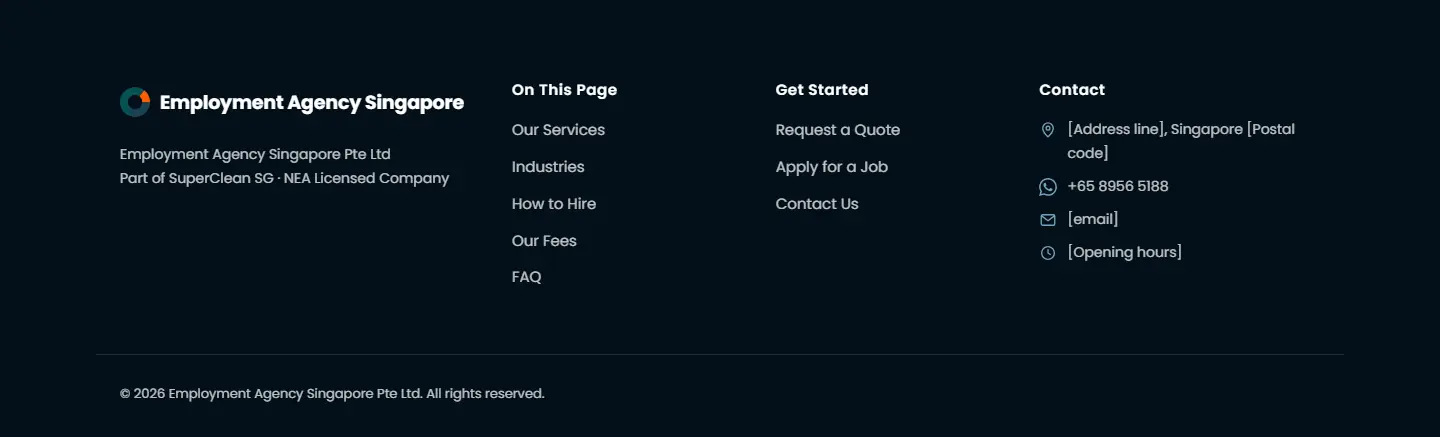
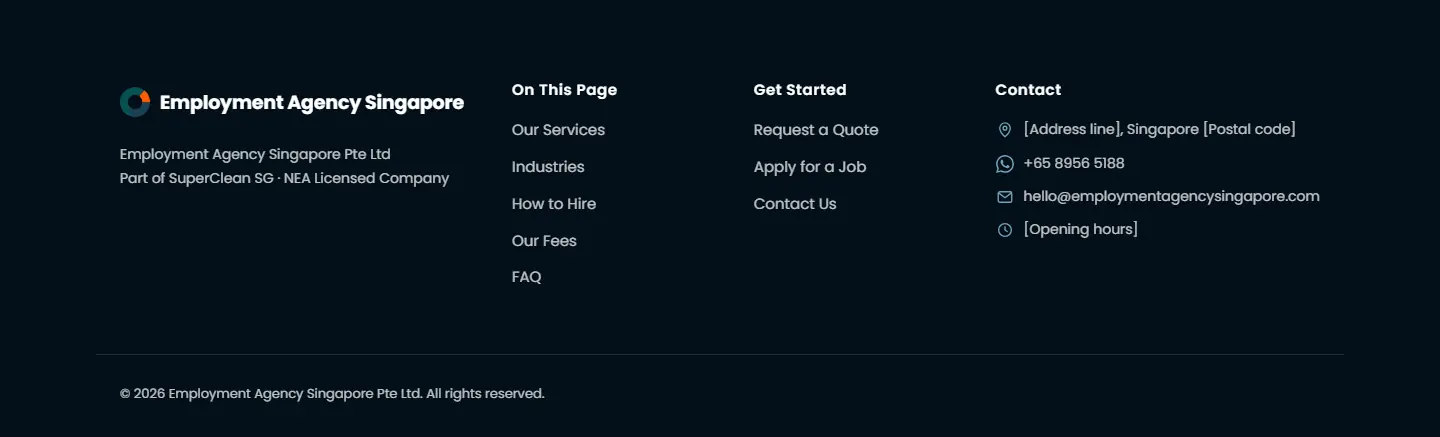
Services default photo, Contact to the form, email and phone
- Services: a default photo shows while no service is open; opening a
  service shows its photo, closing it brings the default back.
  service-default.webp is a temporary copy until the real photo arrives.
- Contact (nav) and Contact Us (footer) scroll to the form section; the
  footer WhatsApp number still opens WhatsApp.
- Form section shows hello@employmentagencysingapore.com and a phone
  number placeholder; the footer email is filled in too.

diff --git a/process/design-system.html b/process/design-system.html
@@ -453,7 +453,7 @@ table.ds-table{width:100%;border-collapse:collapse;font-size:14px}
       <div class="x-svc open"><div class="x-svc-head"><span class="x-svc-ico"><svg width="24" height="24"><use href="#i-helmet"/></svg></span><span class="x-svc-t"><strong>Construction Worker Recruitment</strong><small>New and U-turn workers</small></span><span class="x-chev"><svg width="18" height="18"><use href="#i-chev"/></svg></span></div>
         <div class="x-svc-body"><p>New and U-turn workers from Bangladesh, India, Myanmar and PRC.</p><div style="display:flex;flex-wrap:wrap;gap:8px"><span class="x-chip">Bangladesh</span><span class="x-chip">India</span><span class="x-chip">Myanmar</span><span class="x-chip">PRC</span></div><a class="x-btn x-primary sm" href="#components" style="justify-self:start">Request a Quote</a></div></div>
     </div>
-    <ul class="state-list"><li>All rows closed on load; a click opens one and closes the others; clicking an open row closes it. No timer</li><li>Row header padding 20 × 24 desktop, 16 × 18 tablet, 14 × 16 mobile; icon tile 48 / 40 / hidden on mobile</li><li>The row's Request a Quote button scrolls to the homepage form with that service pre-selected</li></ul></div></div>
+    <ul class="state-list"><li>All rows closed on load; a click opens one and closes the others; clicking an open row closes it. No timer</li><li>Desktop photo panel: a default photo (<code>service-default.webp</code>) while no row is open; opening a row shows that service's photo; closing it brings the default back</li><li>Row header padding 20 × 24 desktop, 16 × 18 tablet, 14 × 16 mobile; icon tile 48 / 40 / hidden on mobile</li><li>The row's Request a Quote button scrolls to the homepage form with that service pre-selected</li></ul></div></div>
 
   <div class="ds-sub"><h3>3.4 FAQ row</h3>
     <div class="specimen x"><div class="demo-col">
@@ -564,7 +564,7 @@ table.ds-table{width:100%;border-collapse:collapse;font-size:14px}
     <div class="gallery"><figure class="shot"><div class="scroll"><img src="design-system-img/faq-desktop.webp" alt="FAQ, desktop" loading="lazy"></div><figcaption>Desktop 1440</figcaption></figure><figure class="shot"><div class="scroll"><img src="design-system-img/faq-tablet.webp" alt="FAQ, tablet" loading="lazy"></div><figcaption>Tablet 768</figcaption></figure><figure class="shot"><div class="scroll"><img src="design-system-img/faq-mobile.webp" alt="FAQ, mobile" loading="lazy"></div><figcaption>Mobile 390</figcaption></figure></div></div>
 
   <div class="block" id="b-form"><h4>4.12 Request Workers form</h4>
-    <p class="lead-note">Harbor band with dotted circles. Heading, one line of text and the licence line on the left; white form card on the right titled "Get Your Quote Today" (same words as the HubSpot button) holding the HubSpot form, with "Looking for a job? Apply here" (WhatsApp) under it. Every Request a Quote button on the homepage scrolls here. The HubSpot embed runs edge to edge inside the card because it brings its own side padding.</p>
+    <p class="lead-note">Harbor band with dotted circles. Heading, one line of text, email (hello@employmentagencysingapore.com, mailto link) and phone number with Glacier icons, then the licence line on the left; white form card on the right titled "Get Your Quote Today" (same words as the HubSpot button) holding the HubSpot form, with "Looking for a job? Apply here" (WhatsApp) under it. Every Request a Quote button on the homepage scrolls here. The HubSpot embed runs edge to edge inside the card because it brings its own side padding.</p>
     <div class="table-wrap bp-table"><table class="ds-table"><tr><th>Desktop</th><th>Tablet</th><th>Mobile</th></tr><tr><td>Two columns</td><td>Stacked</td><td>Stacked, centred heading</td></tr></table></div>
     <div class="gallery"><figure class="shot"><div class="scroll"><img src="design-system-img/form-desktop.webp" alt="Request Workers form, desktop" loading="lazy"></div><figcaption>Desktop 1440</figcaption></figure><figure class="shot"><div class="scroll"><img src="design-system-img/form-tablet.webp" alt="Request Workers form, tablet" loading="lazy"></div><figcaption>Tablet 768</figcaption></figure><figure class="shot"><div class="scroll"><img src="design-system-img/form-mobile.webp" alt="Request Workers form, mobile" loading="lazy"></div><figcaption>Mobile 390</figcaption></figure></div></div>
 
@@ -599,11 +599,12 @@ table.ds-table{width:100%;border-collapse:collapse;font-size:14px}
         <tr><td>13</td><td>Footer + floating WhatsApp</td><td>4.13 / 3.9</td><td>Depth</td></tr>
       </table></div></div>
     <div style="flex:1;min-width:300px"><h3 style="margin:0 0 10px;color:#030F18">One page only</h3>
-      <p style="margin:0 0 12px">There is no contact page. Quote requests go to the Request Workers form at the bottom of the homepage; Contact and job enquiries go to WhatsApp +65 8956 5188.</p>
+      <p style="margin:0 0 12px">There is no contact page. Quote requests and Contact go to the Request Workers form section at the bottom of the homepage; job enquiries go to WhatsApp +65 8956 5188.</p>
       <div class="table-wrap"><table class="ds-table">
         <tr><th>Link</th><th>Goes to</th></tr>
         <tr><td>Request a Quote (header, hero, fees, process)</td><td>Homepage form, same page</td></tr>
-        <tr><td>Contact (nav), Contact Us (footer)</td><td>WhatsApp with the employer message, new tab</td></tr>
+        <tr><td>Contact (nav), Contact Us (footer)</td><td>Request a Quote form section, same page</td></tr>
+        <tr><td>Footer WhatsApp number</td><td>WhatsApp with the employer message, new tab</td></tr>
         <tr><td>Service row Request a Quote</td><td>Homepage form, service pre-selected</td></tr>
         <tr><td>Hire … Workers (country cards)</td><td>Homepage form, country pre-selected</td></tr>
         <tr><td>Find a Job, Apply for a Job</td><td>WhatsApp with a job-seeker message, new tab</td></tr>

diff --git a/landing-pages/index.html b/landing-pages/index.html
@@ -10,8 +10,8 @@
   <link rel="preconnect" href="https://fonts.gstatic.com" crossorigin>
   <link href="https://fonts.googleapis.com/css2?family=Poppins:wght@400;500;600;700&display=swap" rel="stylesheet">
   <link rel="icon" type="image/svg+xml" href="images/ea-logo.svg">
-  <link rel="stylesheet" href="css/design-system.css?v=41">
-  <link rel="stylesheet" href="css/home.css?v=41">
+  <link rel="stylesheet" href="css/design-system.css?v=42">
+  <link rel="stylesheet" href="css/home.css?v=42">
 </head>
 <body>
 
@@ -68,7 +68,7 @@
       <a href="#how-to-hire">How to Hire</a>
       <a href="#fees">Fees</a>
       <a href="#faq">FAQ</a>
-      <a data-link="contact" href="#" target="_blank" rel="noopener">Contact</a>
+      <a data-link="contact" href="#request-workers">Contact</a>
       <div class="nav-ctas-mobile">
         <a class="btn btn-secondary" data-link="findJob" href="#" target="_blank" rel="noopener">Find a Job</a>
         <a class="btn btn-primary" data-link="requestWorkers" href="#request-workers">Request a Quote</a>
@@ -229,7 +229,8 @@
 
       <div class="svc-media" aria-hidden="true">
         <div class="svc-media-frame">
-          <div class="media-ph has-photo is-active"><img src="images/home/service-cleaner-supply.webp" width="1200" height="960" alt="Cleaner in rubber gloves washing a plate at a commercial kitchen sink" title="Foreign Cleaner Supply" loading="lazy" decoding="async"></div>
+          <div class="media-ph has-photo media-default is-active"><img src="images/home/service-default.webp" width="1200" height="960" alt="Foreign cleaning and construction workers placed by Employment Agency Singapore" title="Foreign Worker Services" loading="lazy" decoding="async"></div>
+          <div class="media-ph has-photo"><img src="images/home/service-cleaner-supply.webp" width="1200" height="960" alt="Cleaner in rubber gloves washing a plate at a commercial kitchen sink" title="Foreign Cleaner Supply" loading="lazy" decoding="async"></div>
           <div class="media-ph has-photo"><img src="images/home/service-outsourcing.webp" width="1200" height="960" alt="SuperClean SG cleaner wiping down an office desk at a client site" title="Cleaning Manpower Outsourcing" loading="lazy" decoding="async"></div>
           <div class="media-ph has-photo"><img src="images/home/service-construction.webp" width="1200" height="960" alt="Construction worker in a hard hat and safety vest measuring steel rebar on site" title="Construction Worker Recruitment" loading="lazy" decoding="async"></div>
           <div class="media-ph has-photo"><img src="images/home/service-work-permit.webp" width="1200" height="960" alt="Signed documents being handed across a desk" title="Work Permit Services" loading="lazy" decoding="async"></div>
@@ -518,6 +519,10 @@
       <h2 id="cta-title">Ready to Get Started? <span class="accent block">Talk to Our Team.</span></h2>
       <p class="lead">Hire reliable foreign cleaners with Singapore's trusted cleaning experts.</p>
       <p class="cta-sub">Simply submit this enquiry form to get your quote and levy check.</p>
+      <ul class="cta-contact">
+        <li><svg class="ico" aria-hidden="true"><use href="#i-mail"/></svg><a href="mailto:hello@employmentagencysingapore.com">hello@employmentagencysingapore.com</a></li>
+        <li><svg class="ico" aria-hidden="true"><use href="#i-phone"/></svg><span>+65 [phone number]</span></li>
+      </ul>
       <p class="licence-line">Part of SuperClean SG · NEA Licensed Company</p>
     </div>
 
@@ -552,14 +557,14 @@
       <h3>Get Started</h3>
       <a data-link="requestWorkers" href="#request-workers">Request a Quote</a>
       <a data-link="findJob" href="#" target="_blank" rel="noopener">Apply for a Job</a>
-      <a data-link="contact" href="#" target="_blank" rel="noopener">Contact Us</a>
+      <a data-link="contact" href="#request-workers">Contact Us</a>
     </div>
     <div class="footer-col">
       <h3>Contact</h3>
       <ul class="contact-list">
         <li><svg class="ico"><use href="#i-pin"/></svg>[Address line], Singapore [Postal code]</li>
-        <li><svg class="ico"><use href="#i-whatsapp"/></svg><a data-link="contact" href="#" target="_blank" rel="noopener">+65 8956 5188</a></li>
-        <li><svg class="ico"><use href="#i-mail"/></svg>[email]</li>
+        <li><svg class="ico"><use href="#i-whatsapp"/></svg><a data-link="whatsapp" href="#" target="_blank" rel="noopener">+65 8956 5188</a></li>
+        <li><svg class="ico"><use href="#i-mail"/></svg><a href="mailto:hello@employmentagencysingapore.com">hello@employmentagencysingapore.com</a></li>
         <li><svg class="ico"><use href="#i-clock"/></svg>[Opening hours]</li>
       </ul>
     </div>
@@ -574,6 +579,6 @@
   <svg><use href="#i-whatsapp"/></svg>
 </a>
 
-<script src="js/home.js?v=41"></script>
+<script src="js/home.js?v=42"></script>
 </body>
 </html>

diff --git a/landing-pages/js/home.js b/landing-pages/js/home.js
@@ -29,10 +29,10 @@ const MSG_JOB_SEEKER = [
 ].join('\n');
 
 // One page only: Request a Quote and the service/country cards go to the HubSpot form below.
-// Contact, Find a Job and the WhatsApp buttons open WhatsApp in a new tab.
+// Contact scrolls to the form section; Find a Job and the WhatsApp buttons open WhatsApp in a new tab.
 const LINKS = {
   requestWorkers: '#request-workers',
-  contact: waLink(MSG_EMPLOYER),
+  contact: '#request-workers',
   findJob: waLink(MSG_JOB_SEEKER),
   whatsapp: waLink(MSG_EMPLOYER),
 };
@@ -99,7 +99,8 @@ updateReviewBtns();
 
 /* ---------- Services accordion: opens and closes only when clicked ---------- */
 const svcItems = [...document.querySelectorAll('.svc-item')];
-const svcMedia = [...document.querySelectorAll('.svc-media .media-ph')];
+const svcMedia = [...document.querySelectorAll('.svc-media .media-ph:not(.media-default)')];
+const svcDefault = document.querySelector('.svc-media .media-default');
 let svcIndex = svcItems.findIndex((item) => item.classList.contains('is-open'));
 
 // i = -1 closes everything
@@ -111,7 +112,8 @@ const openService = (i) => {
     item.querySelector('.svc-head').setAttribute('aria-expanded', String(open));
   });
   // keep the last picture showing when everything is closed
-  if (i >= 0) svcMedia.forEach((m, n) => m.classList.toggle('is-active', n === i));
+  svcMedia.forEach((m, n) => m.classList.toggle('is-active', n === i));
+  if (svcDefault) svcDefault.classList.toggle('is-active', i < 0);
 };
 
 svcItems.forEach((item, i) => {

diff --git a/landing-pages/css/home.css b/landing-pages/css/home.css
@@ -863,3 +863,12 @@ details[open] .faq-ico { transform: rotate(45deg); background: var(--frost); }
 .form-card .hs-form-frame { margin: 0 -32px; }
 @media (max-width: 900px) { .form-card .hs-form-frame { margin: 0 -24px; } }
 @media (max-width: 600px) { .form-card .hs-form-frame { margin: 0 -18px; } }
+/* Email and phone in the Request a Quote band */
+.cta-contact { display: grid; gap: 4px; }
+.cta-contact li { display: flex; align-items: center; gap: 10px; font-size: 15px; color: var(--white); }
+.cta-contact .ico { width: 18px; height: 18px; color: var(--glacier); }
+.cta-contact a { display: inline-flex; align-items: center; min-height: 44px; text-decoration: underline; text-underline-offset: 3px; text-decoration-color: rgba(114,163,191,.6); word-break: break-word; }
+.cta-contact a:hover { color: var(--glacier); }
+.cta-contact span { display: inline-flex; align-items: center; min-height: 44px; }
+@media (max-width: 900px) { .cta-contact li { font-size: 14px; } }
+@media (max-width: 600px) { .cta-contact { justify-items: center; } }

diff --git a/CLAUDE.md b/CLAUDE.md
@@ -15,7 +15,7 @@ landing-pages/        THE ONLY FOLDER THAT GETS DEPLOYED
   images/home/*.webp    homepage photos
 process/              design-system.html (internal only, never deployed) + design-system-img/ + snippets/
 scripts/python/       capture.py · mobile_audit.py · ds_shots.py · build_preview.py · strips.py
-output/               backups/v1 … v27 and screenshots: local only, ignored by git
+output/               backups/v1 … v31 and screenshots: local only, ignored by git
 ```
 A new page would go in `landing-pages/<page-slug>/index.html`. Nothing else belongs at the root.
 
@@ -32,9 +32,9 @@ A new page would go in `landing-pages/<page-slug>/index.html`. Nothing else belo
 - Colours from the `:root` tokens only. Only Request a Quote is orange. In two-colour H2s the highlight sits on the second line. H2s are centred, except the recruitment process and the Request Workers form (left on desktop and tablet).
 - Licence line reads "Part of SuperClean SG · NEA Licensed Company" (hero, form section, footer).
 - Mobile: inputs 16px, tap targets at least 44px (arrow buttons 40), no sideways scrolling. Check 360, 390 and 768 with `mobile_audit.py`.
-- Links: Request a Quote and the service and country cards scroll to the homepage form. Contact / Contact Us, the footer number, Find a Job / Apply for a Job and the WhatsApp buttons open WhatsApp +65 8956 5188 with a pre-filled message (employer or job seeker). Change these at the top of `js/home.js`.
+- Links: Request a Quote, Contact / Contact Us and the service and country cards scroll to the homepage form section. The footer number, Find a Job / Apply for a Job and the WhatsApp buttons open WhatsApp +65 8956 5188 with a pre-filled message (employer or job seeker). Email: hello@employmentagencysingapore.com (form section and footer); the form-section phone number is still a placeholder. Change these at the top of `js/home.js`.
 - The form is the HubSpot embed (portal 242253439). Its fields, consent text and thank-you message are edited in HubSpot. Never submit test entries without asking: they create real leads. It can't load in the claude.ai preview, which shows a placeholder instead.
-- Images: WebP only (logo SVG), in `images/home/` named `hero-…`, `service-…`, `country-…`. Every `<img>` needs `alt`, `title`, `width` and `height`; below-the-fold photos use `loading="lazy"`. Country cards use worker photos, no flags.
+- Images: WebP only (logo SVG), in `images/home/` named `hero-…`, `service-…`, `country-…`. `service-default.webp` is the services photo shown while no service is open (temporary copy of the outsourcing photo until Crystal sends hers). Every `<img>` needs `alt`, `title`, `width` and `height`; below-the-fold photos use `loading="lazy"`. Country cards use worker photos, no flags.
 - The blog section and Our Clients are hidden with the `hidden` attribute until real articles and client logos exist.
 - Git: commit and push only when asked. `output/` stays out of the repo.
 
